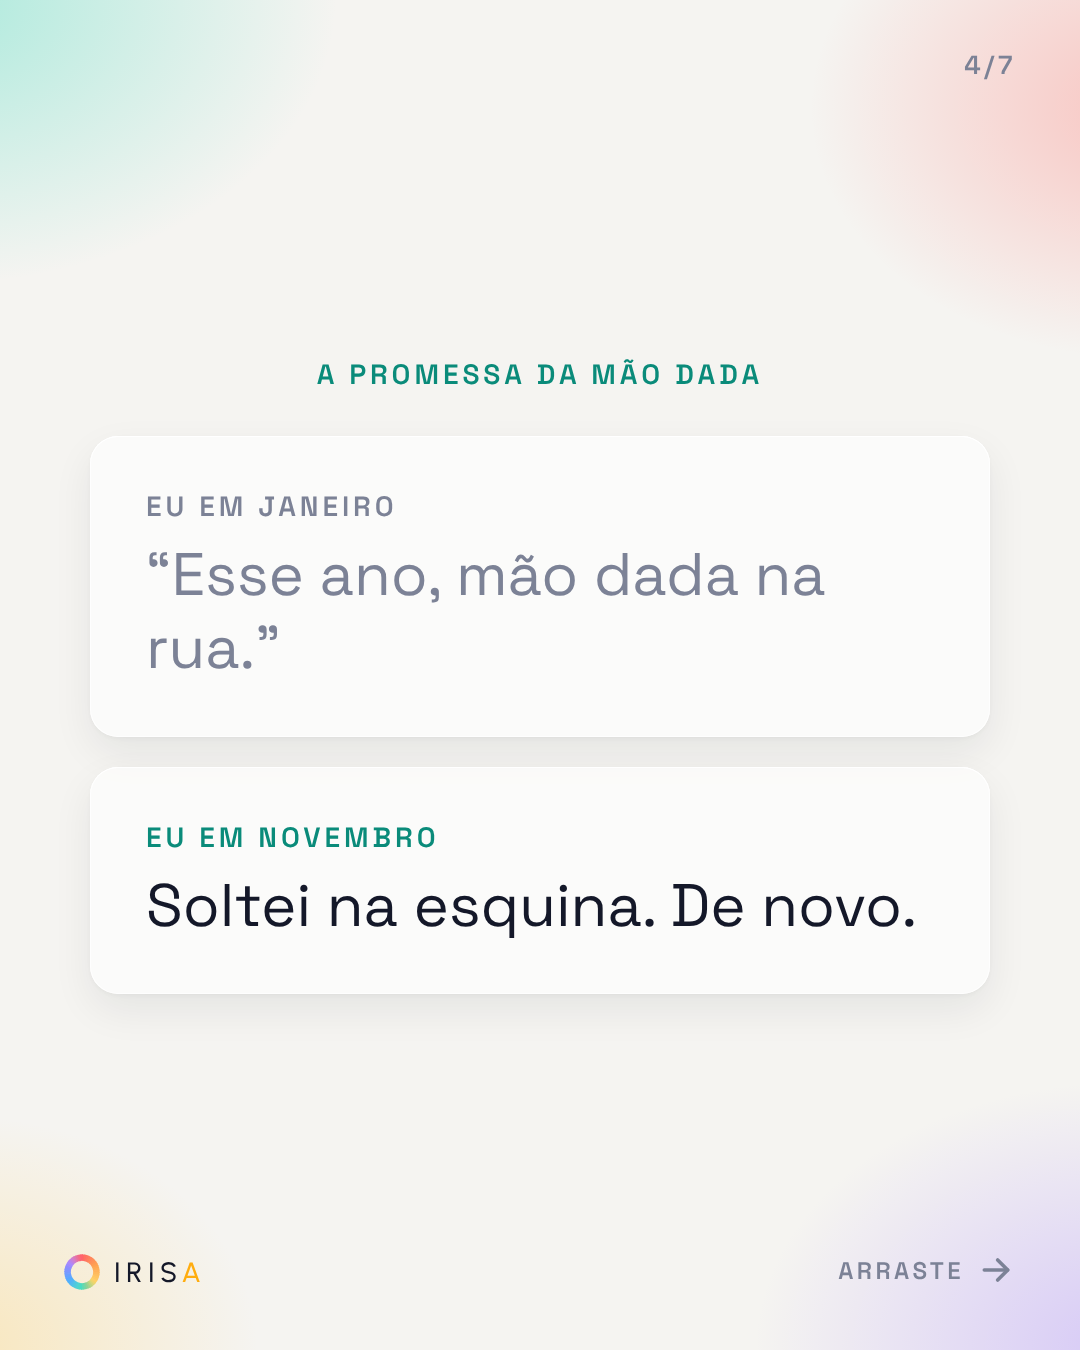
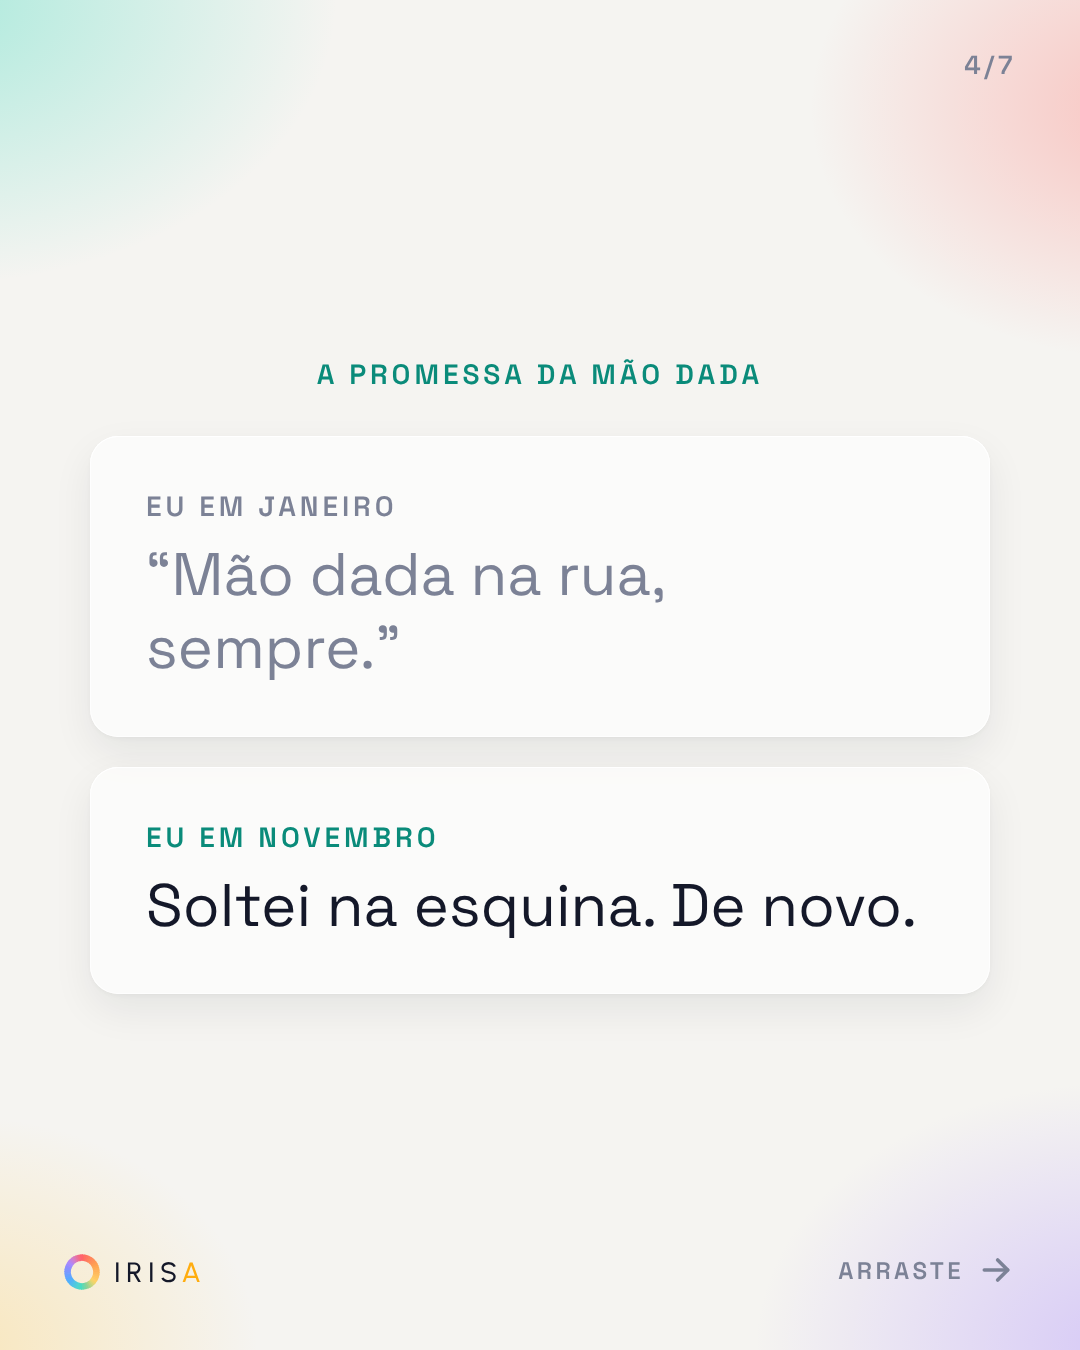
Instagram: lâmina 4 do Eu em novembro sem palavra órfã
Claude-Session: https://claude.ai/code/session_01KS6CN8dvg9haciArgUThmL

Changed region(s): [[0.1222, 0.4044, 0.4583, 0.4978], [0.4889, 0.4044, 0.6722, 0.4667], [0.7028, 0.4044, 0.7639, 0.4667]]

diff --git a/docs/carrossel-eu-em-novembro.html b/docs/carrossel-eu-em-novembro.html
@@ -72,7 +72,7 @@ body{font-family:var(--body);color:var(--ink);display:flex;flex-direction:column
 </div></section>
 <section class="sl"><div class="bg"></div><div class="num">4/7</div><div class="brand"><svg class="mark" viewBox="0 0 100 100"><use href="#radarmin"></use></svg><span>Iris<b>a</b></span></div><div class="swipe">arraste <svg viewBox="0 0 24 24" fill="none" stroke="currentColor" stroke-width="2.2" stroke-linecap="round" stroke-linejoin="round"><path d="M5 12h14"/><path d="m13 6 6 6-6 6"/></svg></div><div class="eyebrow c" style="color:var(--turqInk);margin-bottom:44px">a promessa da mão dada</div>
 <div class="duo">
-<div class="jan"><b style="color:var(--dim)">Eu em janeiro</b><span>“Esse ano, mão dada na rua.”</span></div>
+<div class="jan"><b style="color:var(--dim)">Eu em janeiro</b><span>“Mão dada na rua, sempre.”</span></div>
 <div><b style="color:var(--turqInk)">Eu em novembro</b><span>Soltei na esquina. De novo.</span></div>
 </div></section>
 <section class="sl"><div class="bg"></div><div class="num">5/7</div><div class="brand"><svg class="mark" viewBox="0 0 100 100"><use href="#radarmin"></use></svg><span>Iris<b>a</b></span></div><div class="swipe">arraste <svg viewBox="0 0 24 24" fill="none" stroke="currentColor" stroke-width="2.2" stroke-linecap="round" stroke-linejoin="round"><path d="M5 12h14"/><path d="m13 6 6 6-6 6"/></svg></div><div class="eyebrow c" style="color:var(--lilacInk);margin-bottom:44px">a promessa de avaliar</div>
